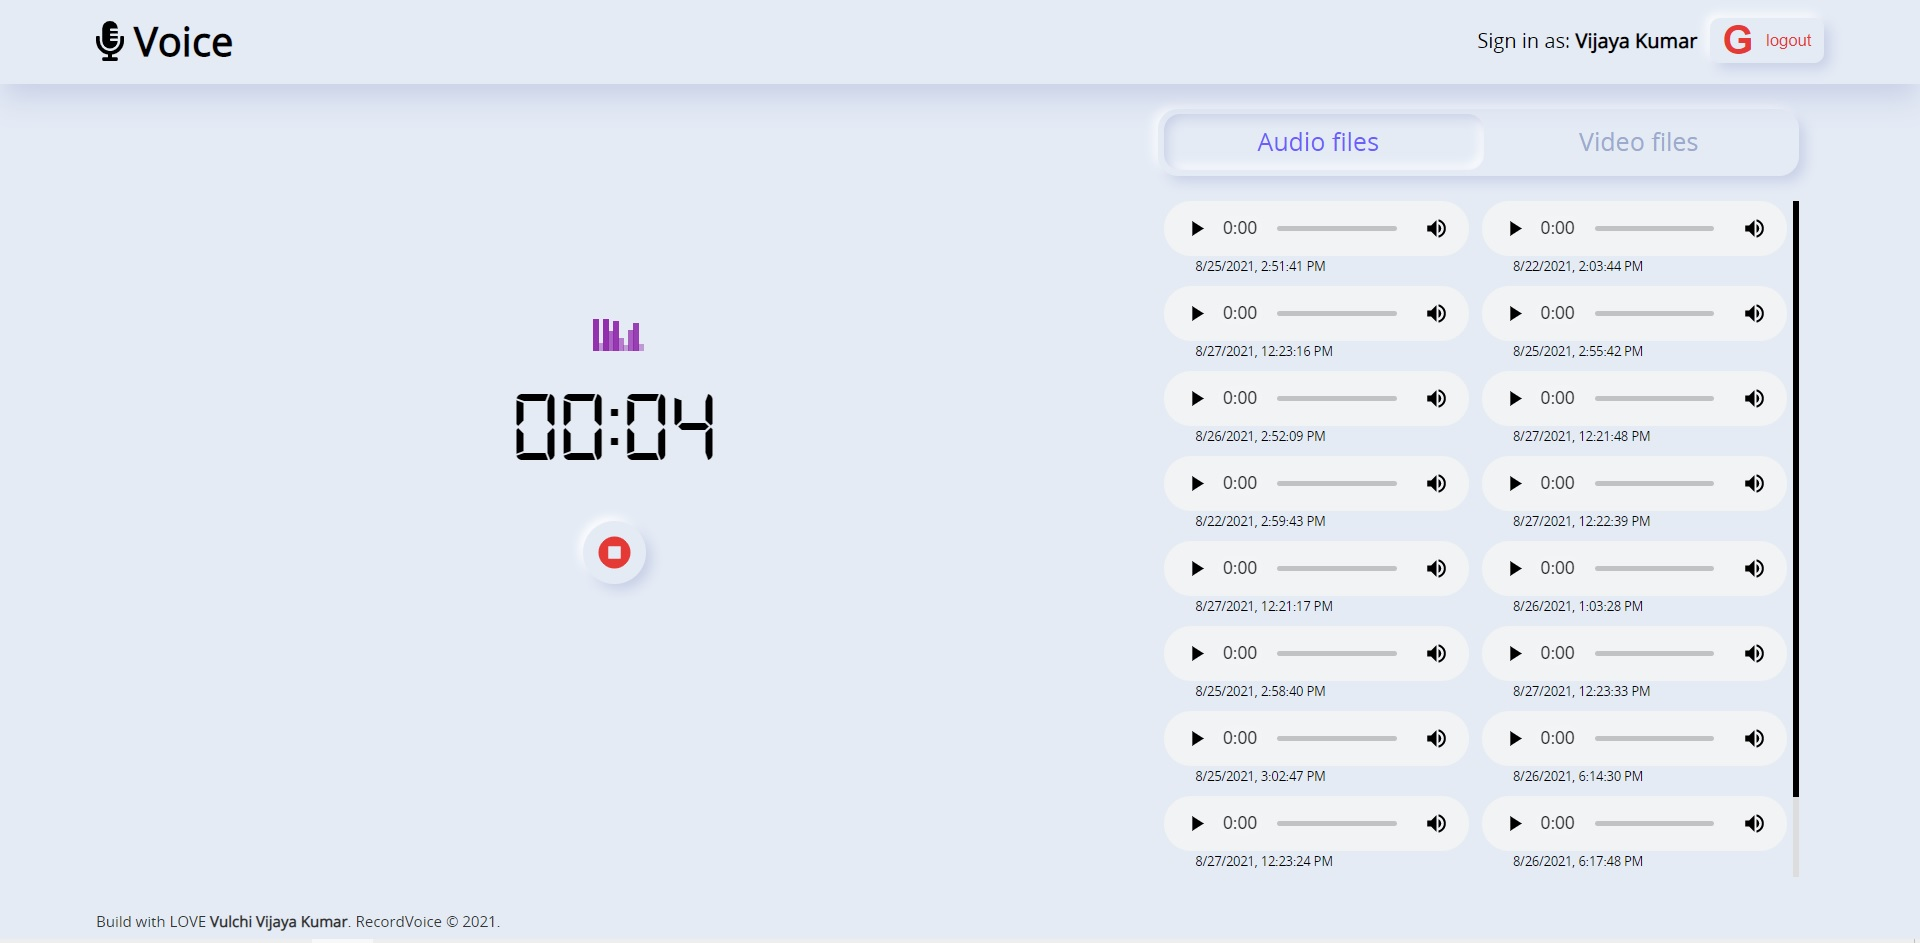
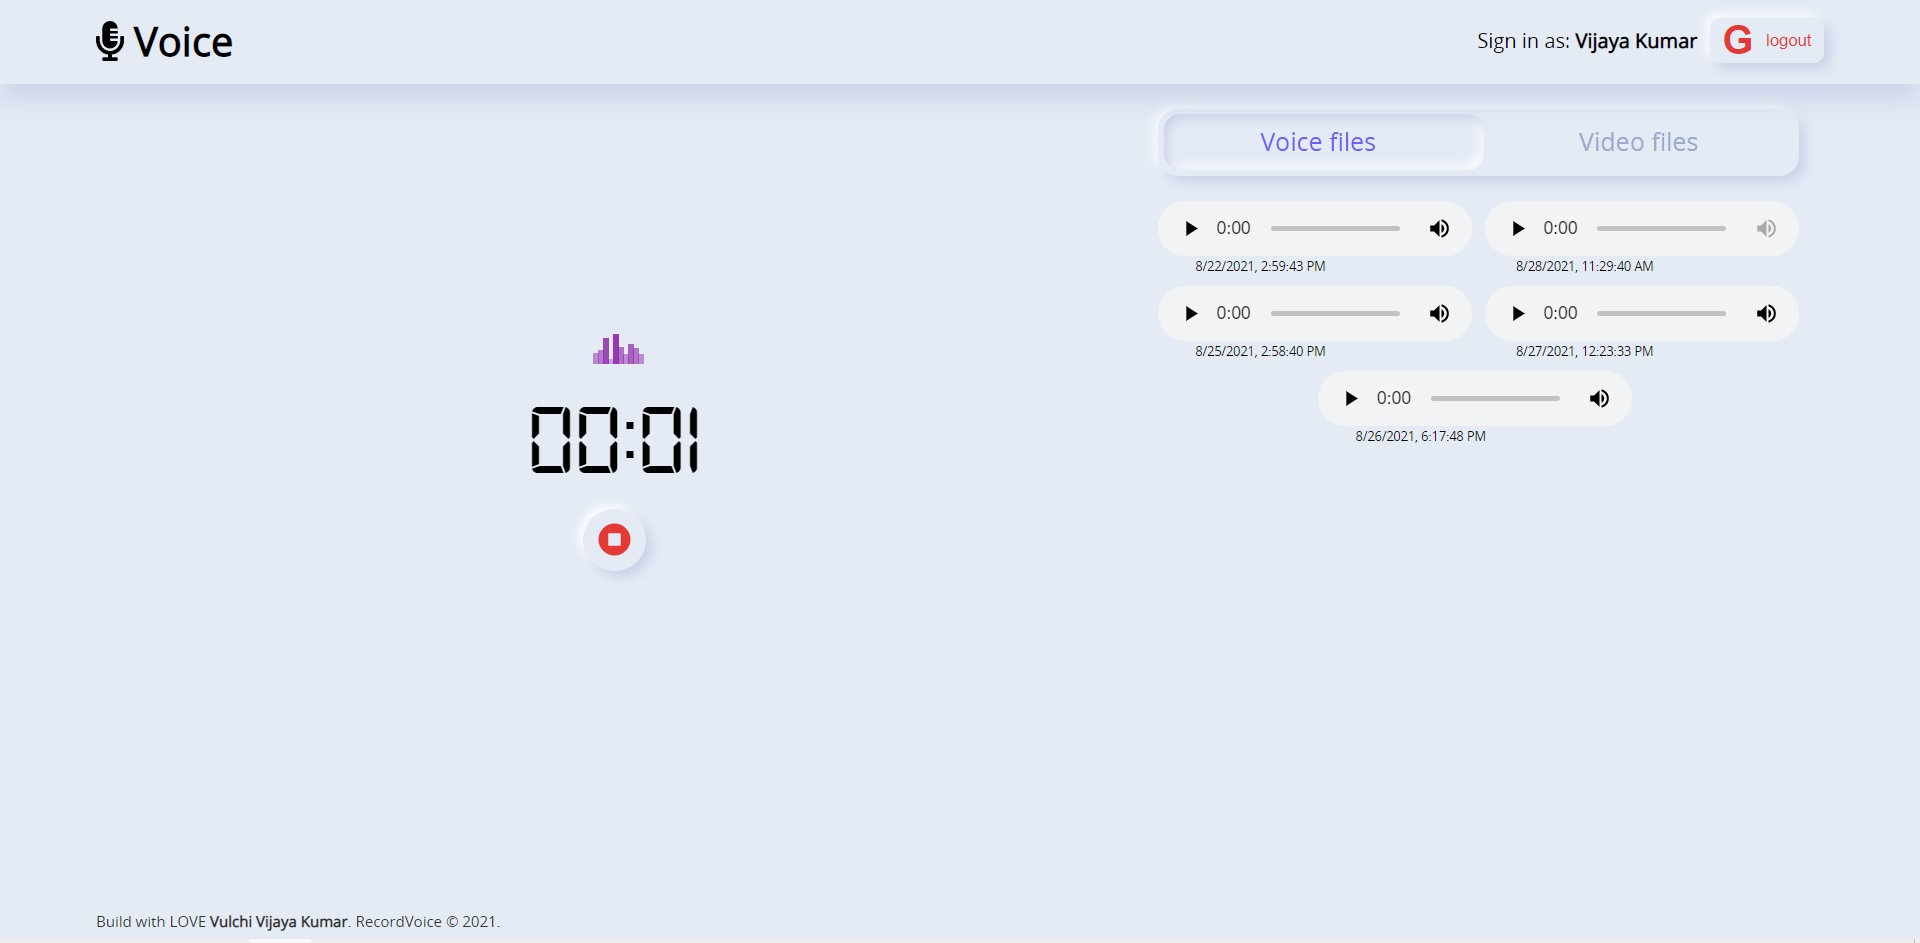
tab switching and videos displaying in video list

diff --git a/src/components/recordlist/index.js b/src/components/recordlist/index.js
@@ -7,7 +7,8 @@ import './tabs.css';
 
 export default function RecordList () {
   const user = useContext(UserContext);
-  const [audioFiles, setAudioFiles] = useState([]);
+  const [firebaseFiles, setFirebaseFiles] = useState([]);
+  const [tabState, setTabState] = useState('tab-1');
   
   useEffect(() => {
     if (user) {
@@ -30,7 +31,7 @@ export default function RecordList () {
           });
         });
         setTimeout(() => {
-          setAudioFiles(temp);
+          setFirebaseFiles(temp);
         }, 2000);
       })
       .catch(function(error) {
@@ -39,25 +40,35 @@ export default function RecordList () {
     }
   }, [user]);
 
+  const tabHandler = (e) => {
+    setTabState(e.target.id)
+  }
+
   return (
     <div className="records-list">
-      <div className="segmented-control">
-        <input type="radio" name="radio2" value="3" id="tab-1" />
-        <label htmlFor="tab-1" className="segmented-control__1" >
-          <p>Audio files</p>
+      <div className="tabs-control">
+        <input type="radio" name="radio2" value="3" id="tab-1" onChange={tabHandler} />
+        <label htmlFor="tab-1" className="tabs-control__1" >
+          <p>Voice files</p>
         </label>
-        <input type="radio" name="radio2" value="4" id="tab-2" />
-        <label htmlFor="tab-2" className="segmented-control__2">
+        <input type="radio" name="radio2" value="4" id="tab-2" onChange={tabHandler} />
+        <label htmlFor="tab-2" className="tabs-control__2">
           <p>Video files</p>
         </label>
-        <div className="segmented-control__color"></div>
+        <div className="tabs-control__color"></div>
       </div>
-      <div className="records-files">
-        <div className="audiofile-wrapper">
+      <div className={"records-files " + (tabState) + " "}>
+        <div className="audiofile-wrapper tab-1">
           {user ?
-            (<ListAudioFiles files={audioFiles}/>)
+            (<ListVoiceFiles files={firebaseFiles}/>)
             :
-            (<p>Sign-in is required to store your records!</p>)
+            (<p>Sign-in is required to store your voice records!</p>)
+          }
+        </div><div className="vidoefile-wrapper tab-2">
+          {user ?
+            (<ListVideoFiles files={firebaseFiles}/>)
+            :
+            (<p>Sign-in is required to store your video records!</p>)
           }
         </div>
       </div>
@@ -65,10 +76,19 @@ export default function RecordList () {
   );
 }
 
-const ListAudioFiles = ({ files }) => {
+const ListVoiceFiles = ({ files }) => {
   return files.map((item, index) => {
-    return (<div className="audioFile" key={index}>
+    return (item.source.indexOf('.webm') !== -1 && <div className="voiceFile" key={index}>
       <audio preload="true" src={item.source} controls={item.controls} />
+      <span>{`${new Date(parseInt(item.createdAt)).toLocaleString()}`}</span>
+    </div>)
+  });
+}
+
+const ListVideoFiles = ({ files }) => {
+  return files.map((item, index) => {
+    return (item.source.indexOf('.mp4') !== -1 && <div className="videoFile" key={index}>
+      <video preload="true" src={item.source} controls={item.controls} />
       <span>{`${new Date(parseInt(item.createdAt)).toLocaleString()}`}</span>
     </div>)
   });

diff --git a/src/components/recordlist/tabs.css b/src/components/recordlist/tabs.css
@@ -1,5 +1,5 @@
-/*  SEGMENTED-CONTROL */
-.segmented-control {
+/*  tabs-CONTROL */
+.tabs-control {
   position: relative;
   width: 100%;
   height: 34px;
@@ -9,20 +9,20 @@
   align-items: center;
 }
 
-.segmented-control input {
+.tabs-control input {
   display: none;
 }
 
-.segmented-control > input:checked + label {
+.tabs-control > input:checked + label {
   transition: all 0.5s ease;
   color: var(--primary);
 }
 
-.segmented-control p {
+.tabs-control p {
   margin: 0;
 }
 
-.segmented-control__1, .segmented-control__2 {
+.tabs-control__1, .tabs-control__2 {
   width: 50%;
   height: 3rem;
   font-size: 16px;
@@ -34,11 +34,11 @@
   transition: all 0.5s ease;
 }
 
-.segmented-control__1:hover, .segmented-control__2:hover, .segmented-control__3:hover {
+.tabs-control__1:hover, .tabs-control__2:hover {
   color: var(--primary);
 }
 
-.segmented-control__color {
+.tabs-control__color {
   position: absolute;
   height: 1.8rem;
   width: 50%;
@@ -48,27 +48,27 @@
   pointer-events: none;
 }
 
-#tab-1:checked ~ .segmented-control__color {
+#tab-1:checked ~ .tabs-control__color {
   transform: translateX(0%);
   transition: transform 0.3s cubic-bezier(0.645, 0.045, 0.355, 1);
 }
 
-#tab-2:checked ~ .segmented-control__color {
+#tab-2:checked ~ .tabs-control__color {
   transform: translateX(96%);
   transition: transform 0.3s cubic-bezier(0.645, 0.045, 0.355, 1);
 }
 
 
 @media only screen and (min-width: 680px) {
-  .segmented-control {
+  .tabs-control {
     height: 54px;
   }
-  .segmented-control__1, .segmented-control__2 {
+  .tabs-control__1, .tabs-control__2 {
     width: 50%;
     height: 3rem;
     font-size: 20px;
   }
-  .segmented-control__color {
+  .tabs-control__color {
     height: 2.8rem;
   }
 }

diff --git a/src/components/recordlist/index.css b/src/components/recordlist/index.css
@@ -22,35 +22,66 @@
   overflow-y: auto;
 }
 
-.audiofile-wrapper {
+.audiofile-wrapper,
+.vidoefile-wrapper {
   display: flex;
   flex-wrap: wrap;
   justify-content: center;
 }
+.records-files .tab-1,
+.records-files .tab-2 {
+  display: none;
+}
+ 
+.records-files.tab-1 .tab-1,
+.records-files.tab-2 .tab-2 {
+  display: flex;
+}
 
-.audioFile {
+.voiceFile,
+.videoFile {
   position: relative;
   z-index: 0;
   width: 100%;
   margin-bottom: 20px;
 }
 
-.audioFile audio {
+.voiceFile audio,
+.videoFile video {
   position: relative;
   z-index: 2;
-  left: 2%;
-  width: 96%;
-  height: 44px;
+  width: 100%;
   border-radius: 17px;
 }
 
-.audioFile span {
+.voiceFile audio {
+  height: 44px;
+}
+
+.videoFile video {
+  width: 100%;
+}
+
+.videoFile video {
+  width: 100%;
+}
+
+.voiceFile span,
+.videoFile span {
   position: absolute;
   z-index: 1;
-  top: 42px;
-  left: 20px;
   padding: 4px 10px;
   font-size: 10px;
+}
+
+.voiceFile span {
+  left: 20px;
+  top: 42px;
+}
+
+.videoFile span {
+  left: 10px;
+  bottom: -15px;
 }
 
 .audiofile-wrapper p {
@@ -64,15 +95,28 @@
     padding: 20px;
   }
 
+  .records-files {
+    height: calc(100% - 74px);
+  }
+
   .audiofile-wrapper p {
     font-size: 16px;
   }
 
-  .audioFile {
+  .voiceFile,
+  .videoFile {
     width: 50%;
   }
-  .records-files {
-    height: calc(100% - 74px);
+
+  .voiceFile:nth-child(n),
+  .videoFile:nth-child(n) {
+    padding-right: 5px;
+  }
+
+  .voiceFile:nth-child(2n),
+  .videoFile:nth-child(2n) {
+    padding-right: 0;
+    padding-left: 5px;
   }
 }
 

diff --git a/src/config/firebase.js b/src/config/firebase.js
@@ -45,13 +45,20 @@ export const uploadFile = (blob) => {
       const { email }  = user;
       const userFolder = email.replace("@gmail.com", "");
       const createdAt = Date.now();
-      const ref = firebase.storage().ref().child(`voices/${userFolder}/${createdAt}.webm`);
-    
+      let ref;
+
       // [START storage_upload_metadata]
       // Create file metadata including the content type
-      var metadata = {
-        contentType: 'audio/webm',
-      };
+      let metadata = {};
+
+      if (blob.type.indexOf('audio/webm') !== -1) {
+        ref = firebase.storage().ref().child(`voices/${userFolder}/${createdAt}.webm`);
+        metadata = { contentType: 'audio/webm' }
+      }
+      if (blob.type.indexOf('audio/mp4') !== -1) {
+        ref = firebase.storage().ref().child(`voices/${userFolder}/${createdAt}.mp4`);
+        metadata = { contentType: 'audio/mp4'}
+      }
     
       // [START storage_upload_blob]
       // 'file' comes from the Blob or File API
@@ -63,12 +70,6 @@ export const uploadFile = (blob) => {
     else {
       console.log("Sign in required to store the file!");
     }
-  });
-}
-
-// Load user based audio files
-export const getAudioFiles = () => {
-  auth.onAuthStateChanged(async (user) => {
   });
 }
 

diff --git a/README.md b/README.md
@@ -36,6 +36,8 @@ Record audio and video with browser features. No paper work. Store your recorded
 
 ![image](https://github.com/vulchivijay/record-voice/blob/main/public/screenshots/userpage-2.jpg)
 
+![image](https://github.com/vulchivijay/record-voice/blob/main/public/screenshots/userpage-3.jpg)
+
 ### Mobile page designs
 
 ![image](https://github.com/vulchivijay/record-voice/blob/main/public/screenshots/mobile.jpg)
